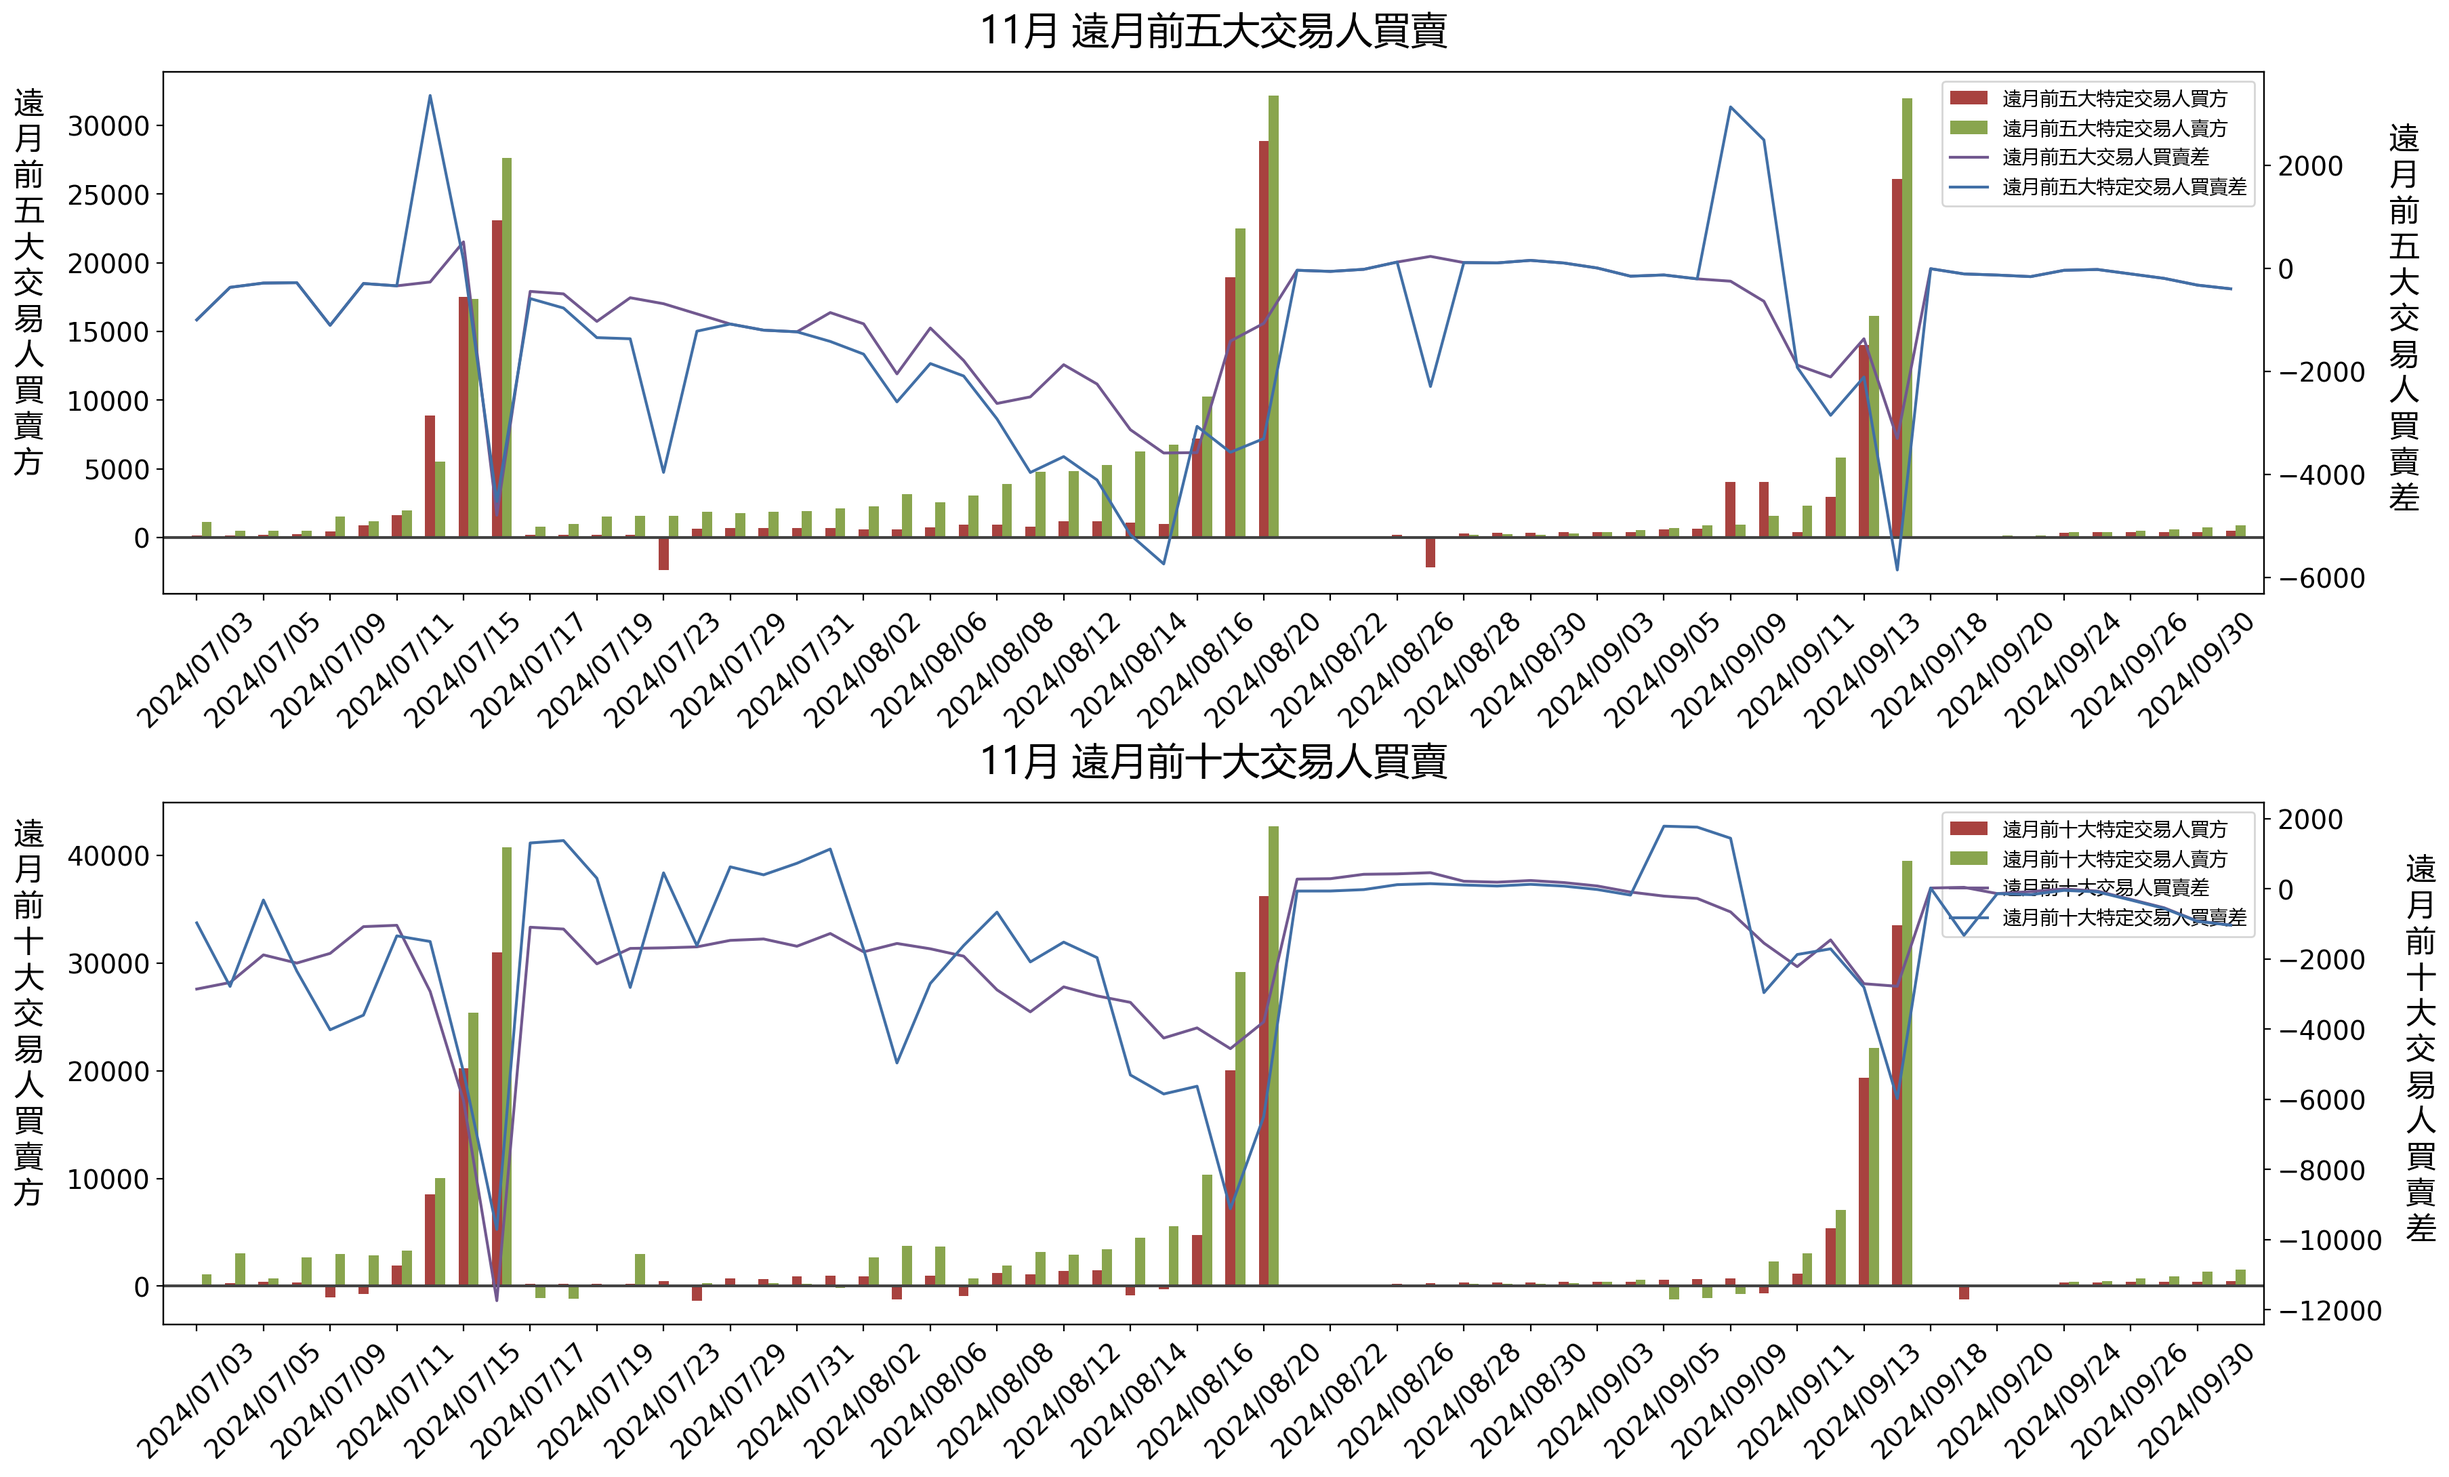
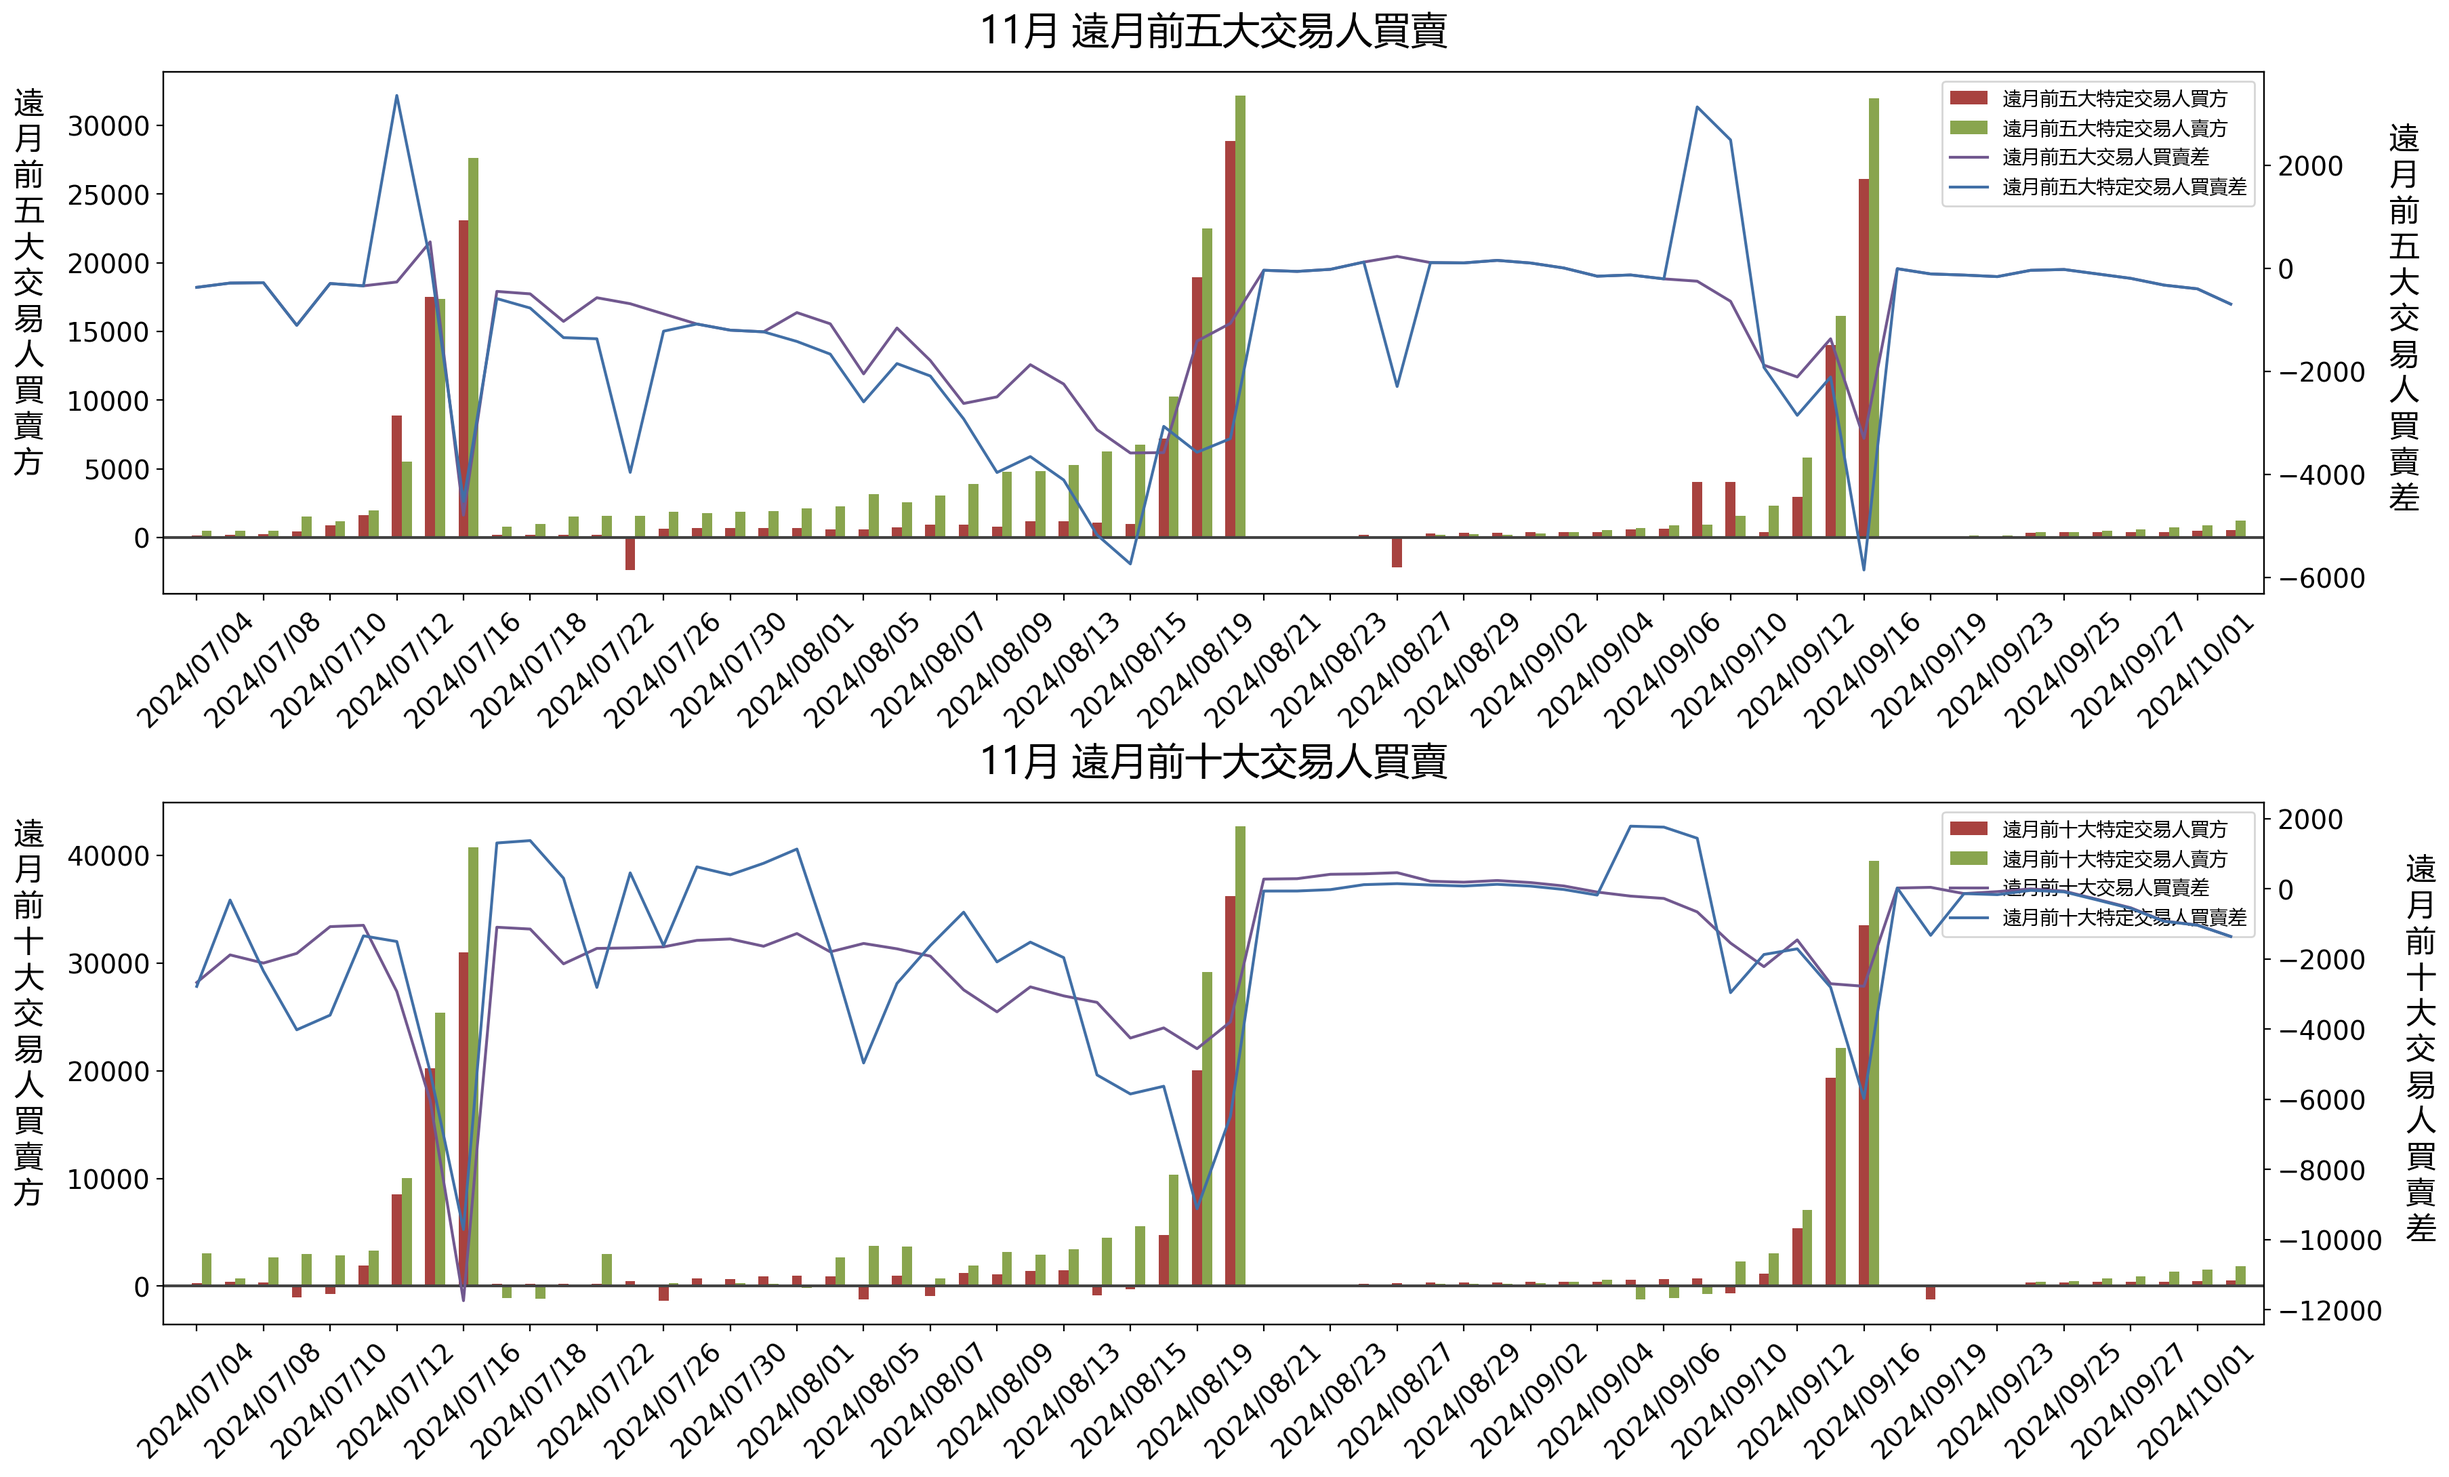
更新時間: Fri Oct  4 16:35:27 CST 2024

diff --git a/README.md b/README.md
@@ -1,12 +1,12 @@
-## 20241003 台指期「預估換倉成本」
+## 20241004 台指期「預估換倉成本」
 ![](images/txfcost.png)
 
-## 20241003 台指期「散戶小台多空比」
+## 20241004 台指期「散戶小台多空比」
 ![](images/bbiri.png)
 
-## 20241003 台指選擇權「Put/Call Ratios」
+## 20241004 台指選擇權「Put/Call Ratios」
 ![](images/pcratio.png)
 
-## 20241003 台指期「大額交易人」
+## 20241004 台指期「大額交易人」
 ![](images/blocktrade.png)
 
